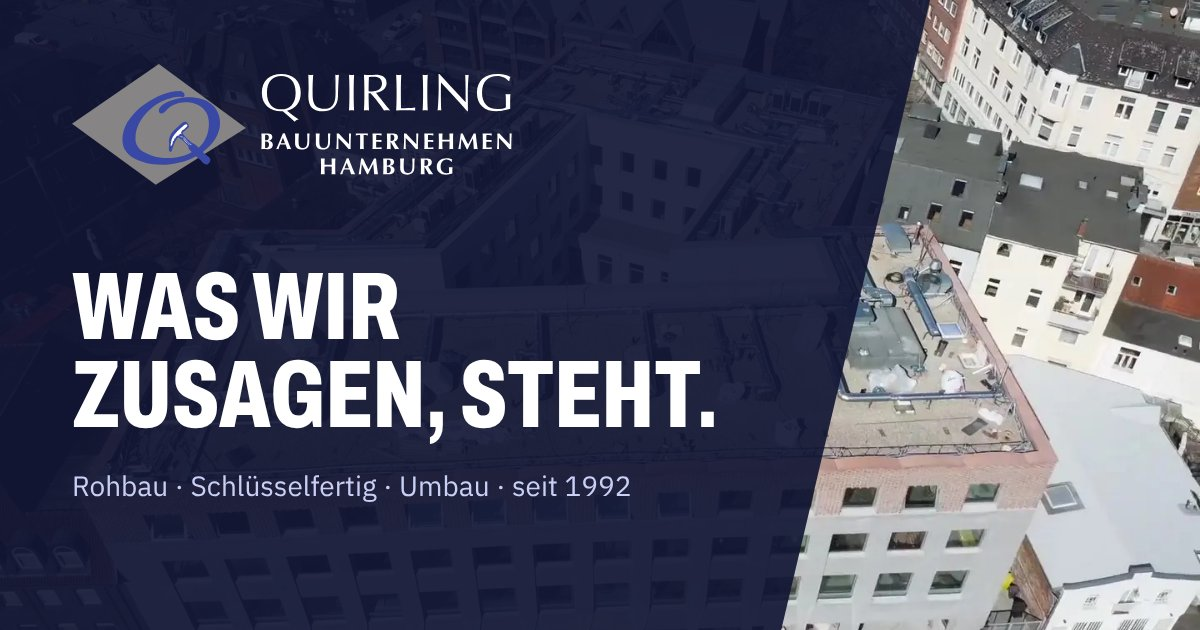
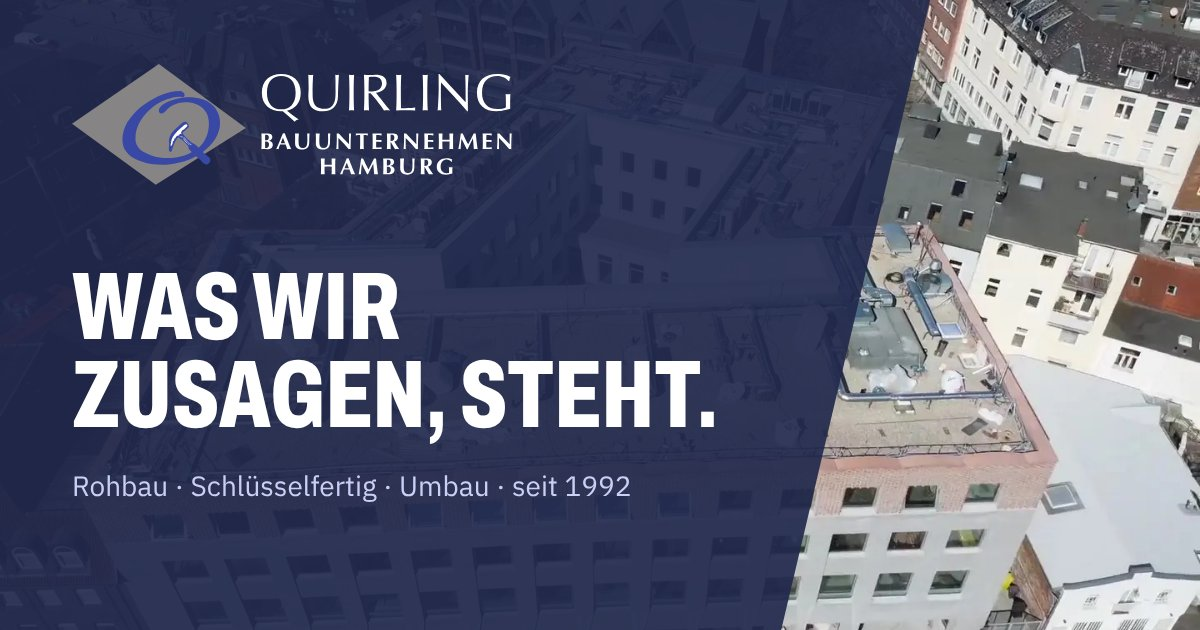
Farben: nur noch Blau #313E97 und Dunkelblau #22294D für Text, Knöpfe und Flächen; Prüfleiste entfernt
Claude-Session: https://claude.ai/code/session_01W93HGYbfEaymZuLQAoHCgt

diff --git a/src/styles/global.css b/src/styles/global.css
@@ -1,6 +1,6 @@
 /* ==========================================================================
    Quirling – Designsystem
-   Farben aus dem Logo: Blau #3948A4, Grau #868484
+   Farben aus dem Logo: Blau #313e97, Grau #868484
    Schriften: Archivo (Überschriften, breit geschnitten), Source Sans 3 (Text),
    Tenor Sans (Akzent/Slogan – humanistisch wie die Hausschrift Optima)
    ========================================================================== */
@@ -13,10 +13,10 @@
 @import '@fontsource-variable/geist-mono/wght.css';
 
 :root {
-  --blue: #3948a4;
+  --blue: #313e97;
   --blue-600: #2f3c8c;
   --blue-800: #1f2861;
-  --navy: #121735;
+  --navy: #22294d;
   --grey: #868484;
   --grey-300: #c9c7c3;
   /* Neutrale Töne mit leichtem Blaustich – abgeleitet vom Navy des Footers */
@@ -24,15 +24,14 @@
   --stone-100: #eef0f7;
   --stone-200: #dfe3f0;
   --tint: #e8ebf7;
-  /* Textfarben (Nuancen der Logofarben): Blau minimal dunkler, Dunkelblau etwas heller.
-     Flächen, Knöpfe und das Logo behalten #3948A4 und #121735. */
-  --blue-text: #324099;
-  --navy-text: #1b2140;
-  --ink: #1d2447;
+  /* Nur noch zwei Markenfarben: Blau #313E97 und Dunkelblau #22294D (Text, Knöpfe und Flächen) */
+  --blue-text: var(--blue);
+  --navy-text: var(--navy);
+  --ink: #22294d;
   --ink-2: #2c335f;
   --ink-3: #5b6188;
   --white: #ffffff;
-  --line: rgb(20 26 60 / 0.12);
+  --line: rgb(34 41 77 / 0.12);
   --line-light: rgb(255 255 255 / 0.18);
   --todo: #d0021b;
 
@@ -137,56 +136,6 @@ h4 {
 .lt {
   /* Überschriften einheitlich kräftig: der zweite Teil übernimmt die Stärke */
   font-weight: inherit;
-}
-/* Prüfansicht: mit ?farbtest an der Adresse erscheint unten links eine Leiste mit Vorher/Nachher und Reglern (siehe Base.astro) */
-.farbtest {
-  position: fixed;
-  left: 12px;
-  bottom: calc(12px + env(safe-area-inset-bottom, 0px));
-  z-index: 9999;
-  width: min(300px, calc(100vw - 24px));
-  display: grid;
-  gap: 8px;
-  padding: 12px 14px;
-  background: #121735;
-  color: #fff;
-  font: 500 13px/1.3 var(--font-body);
-  box-shadow: 0 6px 20px rgb(0 0 0 / 0.3);
-}
-.farbtest .ft-row {
-  display: flex;
-  align-items: center;
-  justify-content: space-between;
-  gap: 8px;
-}
-.farbtest label {
-  display: grid;
-  grid-template-columns: 1fr auto;
-  gap: 2px 8px;
-}
-.farbtest input[type='range'] {
-  grid-column: 1 / -1;
-  width: 100%;
-  accent-color: #9aa6ee;
-}
-.farbtest button {
-  min-height: 32px;
-  padding: 0 12px;
-  border: 1px solid #ffffff66;
-  background: transparent;
-  color: #fff;
-  font: 600 12px/1 var(--font-mono);
-  text-transform: uppercase;
-  letter-spacing: 0.04em;
-  cursor: pointer;
-}
-.farbtest button[aria-pressed='true'] {
-  background: #fff;
-  color: #121735;
-}
-.farbtest code {
-  font: 11px/1.3 var(--font-mono);
-  color: #c9d0f5;
 }
 .c-blue {
   color: var(--blue-text);
@@ -437,7 +386,7 @@ p:last-child {
   line-height: 0.85;
   letter-spacing: -0.02em;
   color: transparent;
-  -webkit-text-stroke: 1.5px var(--stroke, rgb(57 72 164 / 0.35));
+  -webkit-text-stroke: 1.5px var(--stroke, rgb(49 62 151 / 0.35));
   white-space: nowrap;
   pointer-events: none;
   user-select: none;
